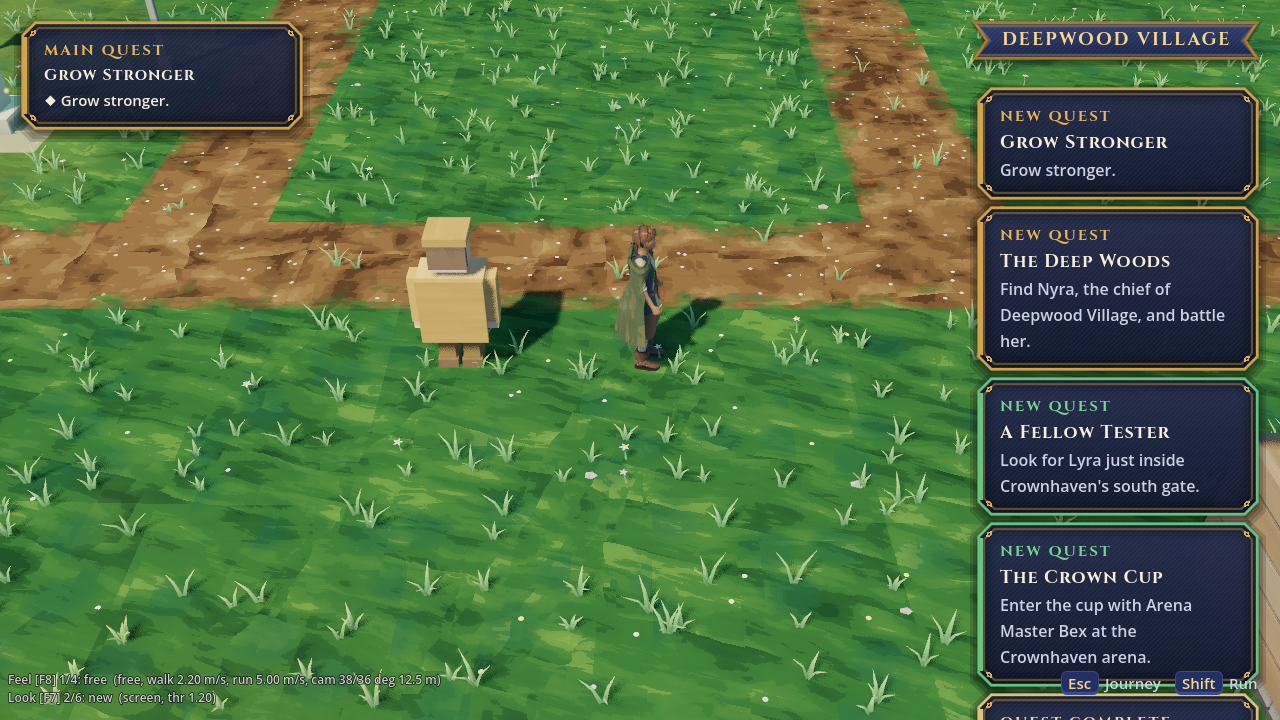
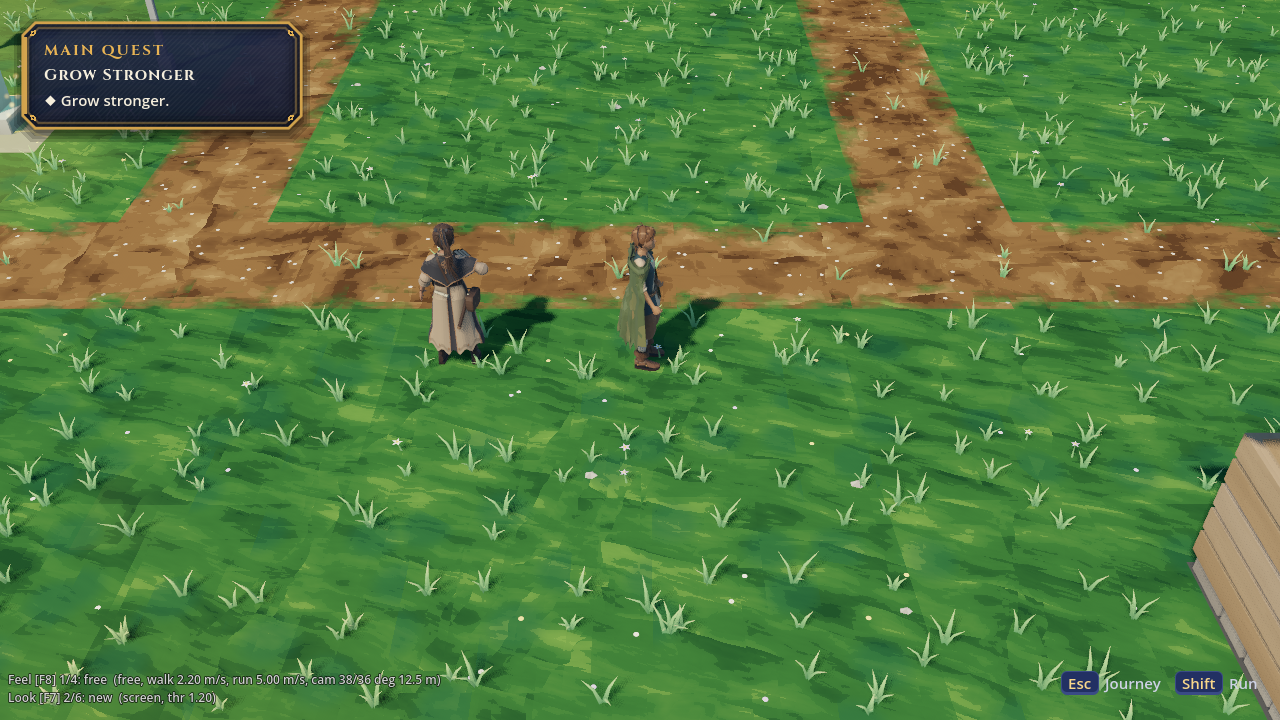
docs: the Deep Woods refined (how to play, the maze rule and clue, knobs) + new screenshots

diff --git a/docs/STORY_MODE.md b/docs/STORY_MODE.md
@@ -855,7 +855,7 @@ drawn from the procedural prop kit in `OverworldProps` (placeholders until the B
 **Built route:** Oakvale → (east) the Mossway → River Crossing → (north over the Old Bridge)
 Crownhaven's south gate → (west gate, after the opening) the Sparse Forest → Woodland Town →
 (west road, once Warden Hale opens it) Deepwood Village → (north trail, once Nyra is beaten) the
-Depths of the Wood. See "The Deep Woods" below.
+Depths of the Wood (a maze) → the Heart of the Wood. See "The Deep Woods" below.
 
 | Area | Character | Layout |
 |---|---|---|
@@ -867,7 +867,8 @@ Depths of the Wood. See "The Deep Woods" below.
 | The Sparse Forest 28x12 (route) | open woodland | a winding cart track, four thickets of wild grass (its own table: Petalfang, Blightcap, Mycothrall, Barkling), Woodsman Alder's clearing |
 | Woodland Town 28x24 | rustic timber town in a forest clearing, dawn light | stream with a plank bridge; east bank: Wardens' Lodge, boardwalk square + Wayshrine, Stumped Hart inn, Timber Row (trading post `woodland_trader`, forge), lumber yard + sawmill, camp; west bank: herbalist, archery range, the Starfall Stone glade; roads: east (the Sparse Forest), west (Deepwood Village -- held by the Wardens' rope until Warden Hale is asked), the north trail (Frostpeak Village, closed), the unmarked south trail (closed -- the Thieves Guild is never named in town) |
 | Deepwood Village 26x20 | clan village in a clearing of the old forest | Nyra's lodge + three tree-houses (PLACEHOLDER cabins), the Deepwood Wayshrine, Nyra, Lyra (while she is in Deepwood), three generic villagers; east: the road to Woodland Town; north: the trail into the Depths (shut until Nyra is beaten) |
-| Depths of the Wood 24x30 (route) | old forest at dusk | a winding track through tall grass (Petalfang, Blightcap, Barkling, Vineweave, Oakheart in the 8-15 band); a wall of old trees with one BREAKABLE TREE in its only gap -- behind it the sacred glade where Eldroot waits; a second breakable tree hides a nook with a chest, a third is a shortcut |
+| Depths of the Wood: 4 rooms, 19x17 each (route) | old forest at dusk, every room alike | a MAZE (Lost Woods meets a Pokemon forest): a clearing with a cross of paths to four exits; LIGHTS mark the right one, the wrong ones lead back to the entrance; BREAKABLE TREES block the right way in rooms 2 and 4 (and a nook in room 3); tall grass (Petalfang, Blightcap, Barkling, Vineweave, Oakheart in the 8-15 band), two optional trainers, two chests |
+| Heart of the Wood 19x14 (route) | the sacred glade at the maze's end | Eldroot waits in the clearing |
 
 ### The world registry (`content/world.tres`)
 
@@ -891,7 +892,7 @@ area's `world_map_pos` / `region_id` come from its place (`_place()` in the buil
 | The Sparse Forest | woodlands | built | Crownhaven, Woodland Town |
 | Woodland Town (0.301, 0.384) | woodlands | built | Sparse Forest, Deepwood, Thieves Guild, Frostpeak |
 | Hidden Thieves Guild | woodlands | closed `world.thieves_guild_open`, **secret** | Woodland Town's south trail |
-| Deepwood Village (0.098, 0.474) / Depths of the Wood (0.114, 0.337) | woodlands | built (`deepwood_village` / `depths_of_the_wood`); their roads open with `world.deepwood_open` (Warden Hale) / `world.depths_of_the_wood_open` (Nyra's win) | Woodland Town's west road / Deepwood's north trail |
+| Deepwood Village (0.098, 0.474) / Depths of the Wood (0.114, 0.337) | woodlands | built (`deepwood_village` / `depths_of_the_wood`, `_2`, `_3`, `_4`, `_heart`); their roads open with `world.deepwood_open` (Warden Hale) / `world.depths_of_the_wood_open` (Nyra's win) | Woodland Town's west road / Deepwood's north trail |
 | Frostpeak Village | snowy_peaks | closed `world.frostpeak_open` | Woodland Town's north trail |
 | Mountain Base / Mountain Pass / Hidden Depths | northern_mountains | closed `world.mountain_road_open` / `world.mountain_pass_open` / `world.hidden_depths_open` | Crownhaven's north gate / Mountain Base |
 | Cindral (the Other Nation) | cindral | closed `world.cindral_open` | the Mountain Pass |
@@ -906,7 +907,7 @@ flag. Tests: `test_overworld_content.gd` (layouts, the atlas and positions, the 
 bridges, the three towns' looks, every NPC reachable at every story stage) and
 `test_story_towns_travel.gd` (real warps between the towns, every closed road turning you back).
 
-### The Deep Woods (DECISIONS.md #38-#41, #50, #56, #67, #71, #74, #75, #80, #81, #85, #88)
+### The Deep Woods (DECISIONS.md #38-#41, #50, #56, #67, #71, #74, #75, #80, #81, #85, #88, #92-#94)
 
 Built by the builder's "THE DEEP WOODS" section (knobs are its constants). How to play it:
 
@@ -915,32 +916,78 @@ Built by the builder's "THE DEEP WOODS" section (knobs are its constants). How t
 2. Take the west road to **Deepwood Village**. Touch the Wayshrine. **Lyra** is here (she stays from
    the moment the road opens until the Eldroot battle is won; Crownhaven's Lyras hide meanwhile --
    `LYRA_IN_DEEPWOOD`, one Lyra at a time).
-3. Talk to **Nyra** (the Deepwood chief, by her lodge): a chief **duel**, `BattleSpec.make_chief` --
+3. Talk to **Lyra**: she **challenges** you (#94) -- a friendly rival **duel** (`deepwood.rival.lyra`,
+   a spar: never permadeath, a loss costs nothing), SCALED with the party inside the 8-15 band
+   (`LYRA_DEEPWOOD_SCALE_OFFSET`, `LYRA_DEEPWOOD_TEAM`). "Not now" is fine: she blocks nothing. Once
+   the bout is FOUGHT, win or lose (`deepwood.lyra_challenged`), she **joins** as a TEMPORARY member
+   at the party's top level (`JoinPartyCommand.match_party_level`, `guest_until` =
+   `deepwood.eldroot_beaten`). While she follows you she is **not an overworld character** (her village
+   NPC hides, there is no follower actor); she is a human unit you deploy in the Eldroot battle's squad
+   pick. A full party: she says so and joins when you talk to her again. Skip her entirely and the
+   Eldroot battle still works -- she is simply not offered.
+4. Talk to **Nyra** (the Deepwood chief, by her lodge): a chief **duel**, `BattleSpec.make_chief` --
    SCALED to the party's top level + `NYRA_SCALE_OFFSET` inside the 8-15 band. Her final creature
    carries `NYRA_STONE_BOOST` (TODO(bond): the stone boost placeholder). A loss whites out (a story
-   duel has no Try Again screen); she waits. Winning sets `deepwood.nyra_beaten`, grants the field
-   move (`fieldmove.treefell`) and opens the trail north (`world.depths_of_the_wood_open`); **Lyra joins** the party (temporary).
-4. In the **Depths of the Wood**, face a **gnarled tree** and press Confirm: "Use Treefell?" Yes fells
-   it for good. The tree in the gap of the old-tree wall leads to the glade, where **Eldroot** waits.
-5. Talk to Eldroot: a **tactical legend battle** (`ow_deepwood_glade.tres`, squad of 4 picked in the squad pick --
-   Lyra among them; `BattleSpec.make_legend`: FIXED at band max + `legend_over_band` = 20, never scaled; Try
-   Again on a loss). Win -> the OPTIONAL bond: "Bond" records Eldroot in `StoryState.legends` (saved
-   as `legends`, format 2 unchanged), never the party; "Not now" leaves it in the glade to ask again.
-   Journey -> Party lists bonded legends read-only.
+   duel has no Try Again screen); she waits. Winning sets `deepwood.nyra_beaten` and
+   `fieldmove.treefell` (the move is now TEACHABLE) and opens the trail north
+   (`world.depths_of_the_wood_open`; only Nyra gates it). She then **teaches the field move** (#92):
+   pick which eligible party member learns it (one eligible member and nobody knowing it yet = no
+   question; nobody eligible = "come back with one who can", and she teaches it whenever you return).
+   Talk to her again to teach it to another eligible member. `deepwood.treefell_learned` marks the
+   quest step.
+5. **The Depths of the Wood -- the maze** (#93): four look-alike rooms (`depths_of_the_wood`, `_2`,
+   `_3`, `_4`; one name, one size, one painter). You always come in from the south; each room has
+   three other exits: the RIGHT one leads on, the two WRONG ones send you back to the maze's entrance
+   (`WarpEntity.arrival_toast`: a short "You feel turned around..." toast, nothing blocks); south goes
+   back a room. **The clue:** a pair of LIGHTS (lantern props, `DM_LIGHT_PROP` / `DM_LIGHT_TINT`,
+   PLACEHOLDER look) flanks the mouth of the right exit in every room, and fireflies drift over its
+   corridor (`DM_CLUE_TILE`: sacred-meadow ground, the tile's own glow) -- the old signpost at the
+   entrance, the Deepwood hunter and Nyra all say "follow the lights". The way through: room 1
+   **north**, room 2 **east**, room 3 **west**, room 4 **north**. In rooms 2 and 4 a **gnarled tree**
+   stands between the lights: face it, Confirm, "Use Treefell?" -- Yes fells it for good (a saved flag)
+   -- so without a member who LEARNED the move you cannot get through. Also: tall grass in every room
+   (the Deep Woods' creatures, 8-15), two OPTIONAL trainers (a Forager in room 2, a Trapper in room 3:
+   generic placeholders standing off the paths, looking away from them), a chest in a nook behind a
+   breakable tree (room 3) and one in a dead-end pocket (room 4).
+6. **The Heart of the Wood** (`depths_of_the_wood_heart`): the clearing at the end, where **Eldroot**
+   waits. Talk to it: a **tactical legend battle** (`ow_deepwood_glade.tres`, squad of 4 picked in the
+   squad pick -- Lyra among them if she came along; `BattleSpec.make_legend`: FIXED at band max +
+   `legend_over_band` = 20, never scaled; Try Again on a loss). Win -> the OPTIONAL bond: "Bond"
+   records Eldroot in `StoryState.legends` (saved as `legends`, format 2 unchanged), never the party;
+   "Not now" leaves it in the glade to ask again. Journey -> Party lists bonded legends read-only.
 
-**Field moves** (`FieldMoveResource`, `content/field_moves/<id>.tres`): `unlock_flag`, `species` (a
-member's form or evolution line), `hero_can_use`, and the hint / prompt / toast texts. A move is
-LOCKED until its flag, then needs a USER (the hero when `hero_can_use`, or a fieldable party member of
-a listed species). **`FieldObstacleEntity`** (kind `obstacle`, look `tree`) blocks its cell; Confirm
-on it gives one hint line while locked or unusable, else "Use <move>?" -- Yes sets
+**Maze knobs** (`DM_*`): `DM_ROOMS` (the rooms in order: each one's `right` exit, `gate` -- a breakable
+tree in its mouth --, tall-grass rects and extra open `pockets`), the light prop and tint, the clue tile, the
+wrong-way toast (`DM_LOST_TOAST`), the trainers' cells / levels (`LV_DM_*`), the nook / pocket chests.
+Deterministic: no RNG. Add a room = add a row (and its area folder in `_initialize`'s list and the
+Depths' `area_ids` in `WORLD_LOCATIONS`).
+
+**Field moves are LEARNED** (#71 / #92; `FieldMoveResource`, `content/field_moves/<id>.tres`):
+`unlock_flag` (the move becomes TEACHABLE), who CAN LEARN it -- `species` (a creature's current form
+or evolution line) and `humans` (human character ids: the hero's `wren`; add `lyra` to the builder's
+`FIELD_MOVE_TREES_HUMANS` to let the Deepwood rival learn it -- left out, since a guest leaves) -- and
+the hint / prompt / toast texts. A member LEARNS it through **`TeachFieldMoveCommand`** (the chief's
+script; a choice of the eligible members, paged when long, "Not now" declines) and keeps it on its
+record (`StoryPartyMember.field_moves`, saved as `field_moves`, format 2 unchanged; an older save loads
+none). The move is USABLE when a FIT (fieldable) party member has learned it; the party page shows a
+"Field moves: ..." line. Conditions: `knows_field_move("<id>")`, `can_learn_field_move("<id>")`.
+**`FieldObstacleEntity`** (kind `obstacle`, look `tree`) blocks its cell; Confirm on it gives one hint
+line while locked or while no fit member knows the move, else "Use <move>?" -- Yes sets
 `<area>.<id>.cleared` (its `visible_if` hides it, so the actor and the blocker go, across a reload).
-The sea move (Beach Village, #43) can reuse both as data: a new move .tres and a new obstacle look.
+The sea move (Beach Village, #43) reuses all of it as data: a new move .tres, a chief's
+`TeachFieldMoveCommand`, a new obstacle look.
 
-**Lyra** joins the party as a TEMPORARY member when Nyra is beaten (`F_LYRA_JOINED`, `guest_until`
-= `deepwood.eldroot_beaten`): a human unit you deploy in the Eldroot battle's squad pick (squad 4), gone again once
-it is won. Placeholders: Nyra's team (`NYRA_TEAM`), the move's name ("Treefell"), the tree-houses
-(cabin props), every Deepwood line (TODO(story)). Tests: `tests/integration/test_deep_woods.gd`,
-`tests/unit/test_field_moves.gd`, `test_region_open.gd` (the Deep Woods open step by step).
+**Guests stay out of duels:** a TEMPORARY member (Lyra here) is never in a duel lineup
+(`StoryState.duel_lineup`) and never counts as the partner that lets a fight start (`can_battle`):
+wild, trainer and chief duels stay the creatures'. She deploys in tactical battles through the squad
+pick (default picks put party order first, so she is last).
+
+Placeholders: Nyra's team (`NYRA_TEAM`), Lyra's team, the move's name ("Treefell"), the tree-houses
+(cabin props), the lights (lamp props), the maze trainers ("Forager", "Trapper"), every Deepwood line
+(TODO(story)). Tests: `tests/integration/test_deep_woods.gd` (+ `_live`: the Eldroot board, the
+wrong-way toast), `tests/unit/test_field_moves.gd`, `test_story_humans.gd` (guests and duels),
+`test_region_open.gd` (the Deep Woods open step by step). Screenshots: `docs/screenshots/deep_woods/`
+(`dev_scripts/deep_woods_shots.tscn`).
 
 ## Dialogue bank & editor
 
